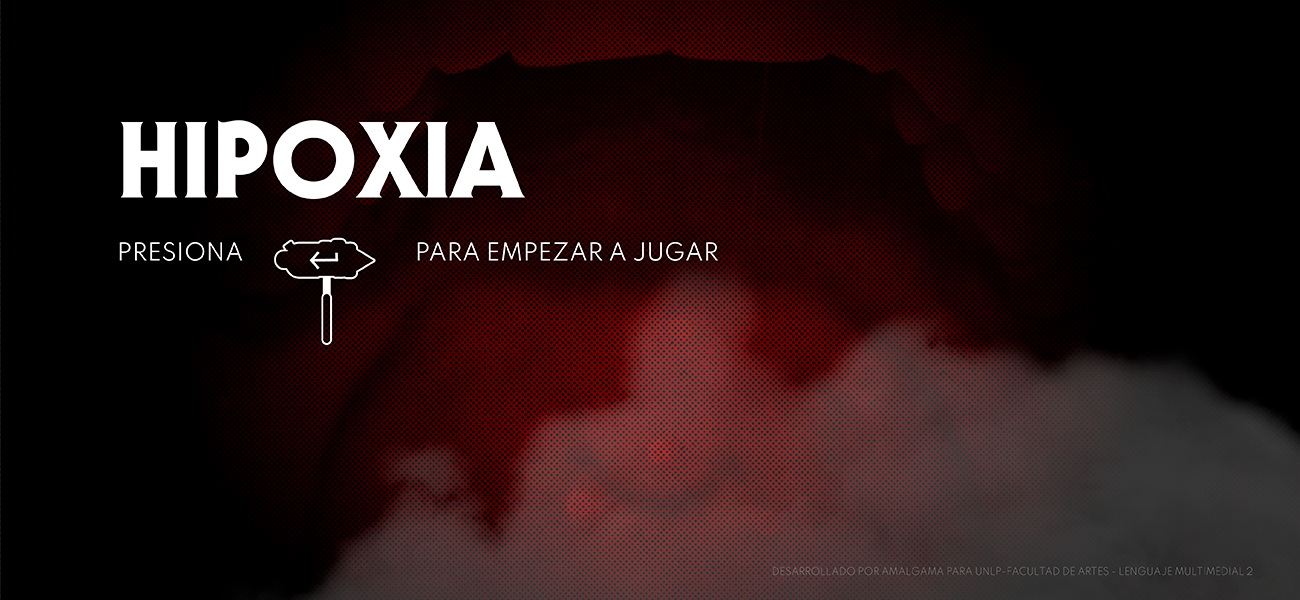
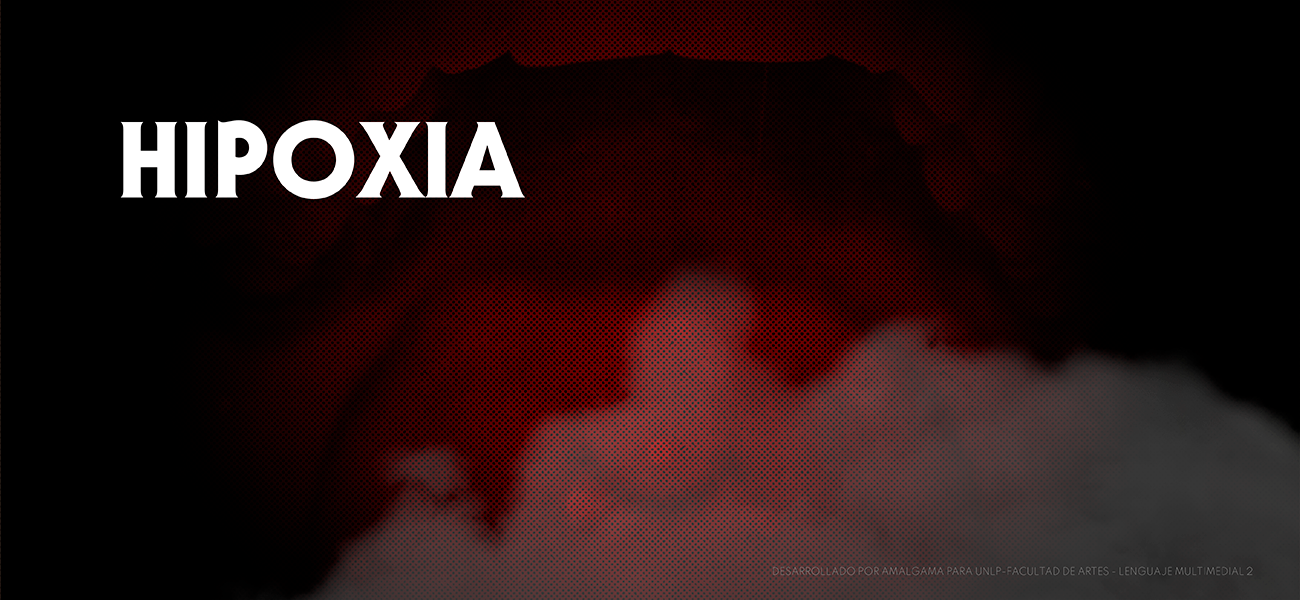
menu

Changed region(s): [[0.2154, 0.39, 0.5538, 0.57], [0.0923, 0.39, 0.1846, 0.45]]

diff --git a/sketch.js b/sketch.js
@@ -27,9 +27,8 @@ let lluvia = [];
 let standing;
 let walkRight;
 let walkLeft;
+let enter;
 let picaranimacion;
-
-
 
 function preload() {
   //Cargo imagenes astronauta
@@ -37,6 +36,7 @@ function preload() {
   walkRight = loadAnimation("img/astro1.png", "img/astro2.png", "img/astro3.png");
   walkLeft = loadAnimation("img/astro6.png", "img/astro7.png", "img/astro8.png");
   picaranimacion = loadAnimation("img/astro4.png", "img/astro5.png");
+  enter = loadAnimation("img/enter0.png","img/enter01.png", "img/enter1.png","img/enter2.png","img/enter21.png",);
 
   //font
   font = loadFont('font/letra.otf');
@@ -143,8 +143,6 @@ function setup() {
 
 
 function draw() {
-
-
   if (estado == "menu") {
     escenario.menu();
     //reset

diff --git a/escenario.js b/escenario.js
@@ -7,7 +7,8 @@ class Escenario {
 
   menu() {
     image(menu, 0, 0);
-
+    tint(255,220);
+    enter.draw(200, 500);
     /*push();
     noFill();
     stroke(255);
